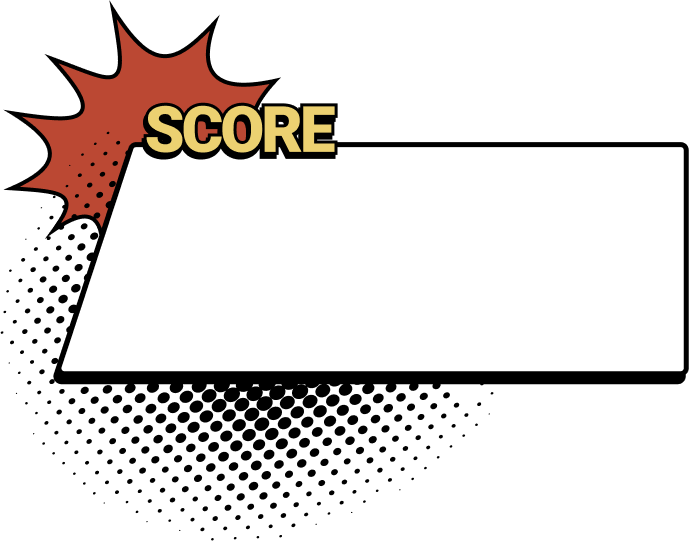
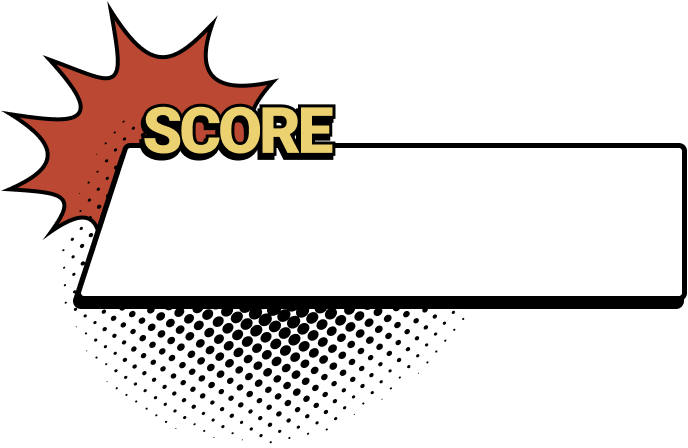
Updated container-score img, text and placement. /Elin, Malin

Changed region(s): [[0.0, 0.0, 1.0, 1.0]]

diff --git a/style.css b/style.css
@@ -68,14 +68,17 @@ footer {
 }
 
 .logotype-small {
-  width: 35vw;
+  width: 33vw;
 }
 
 .container-bubble-one img,
 .container-bubble-two img,
-.container-score img,
 .container-high-score img {
   width: 100%;
+}
+
+.container-score img {
+  width: 80%;
 }
 
 .container-bubble-one,
@@ -86,11 +89,12 @@ footer {
 }
 
 .container-bubble-two {
-  margin-top: -3rem;
+  margin-top: -3.5rem;
 }
 
 .container-score {
-  margin-top: -3rem;
+  margin-top: -4rem;
+  display: none;
 }
 
 .arrow {
@@ -117,10 +121,10 @@ button {
 }
 
 .button-container button:first-child {
-  margin: 1rem 0.6rem -0.9rem 0.3rem;
+  margin: 0.9rem 0.6rem -0.9rem 0.3rem;
 }
 .button-container button:last-child {
-  margin: 1rem 3.2rem -0.9rem 0;
+  margin: 0.9rem 3.2rem -0.9rem 0;
 }
 
 .tongue-twister {
@@ -134,7 +138,7 @@ button {
 
 .record-btn {
   float: right;
-  margin: 0rem 1.3rem -0.9rem 0rem;
+  margin: 0rem 1.3rem -1.05rem 0rem;
   transform: rotate(2.29deg);
 }
 
@@ -149,10 +153,9 @@ button {
 
 .score {
   position: absolute;
-  top: 2.3rem;
-  left: 2rem;
-  padding: 0.5rem;
-  width: 100%;
+  top: 3.4rem;
+  left: 2.8rem;
+  padding: 0.76rem;
 }
 
 .highscore {

diff --git a/game.html b/game.html
@@ -49,7 +49,7 @@
         <div class="container-score">
           <img src="Images/score.png" alt="Score board" />
           <div class="score">
-            <p class="score">YEESSS! You did it!</p>
+            <p>YEESSS! You did it!<br>You got 2 points!</p>
           </div>
         </div>
 
